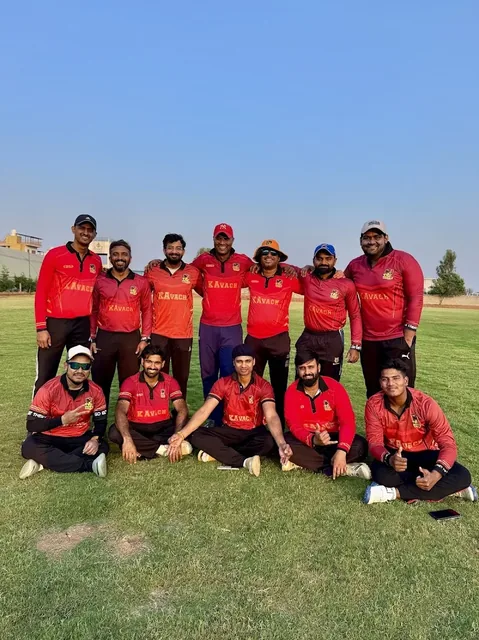
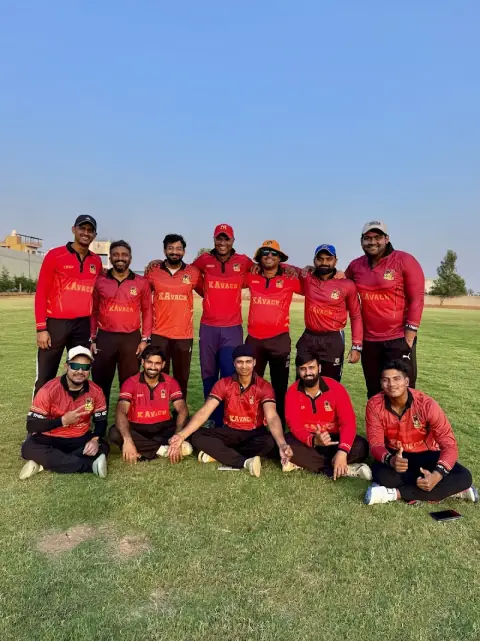
perf: compress mobile webp images and inline critical CSS with deferred style.css

diff --git a/index.html b/index.html
@@ -48,8 +48,395 @@
   <link rel="preload" href="./assets/fonts/inter-400.woff2" as="font" type="font/woff2" crossorigin>
   <link rel="preload" href="./assets/fonts/montserrat-700.woff2" as="font" type="font/woff2" crossorigin>
 
-  <!-- Stylesheets -->
-  <link rel="stylesheet" href="./assets/css/style.css?v=5.6">
+  <!-- Critical Above-the-Fold Inline CSS (Eliminates Render-Blocking Delays for FCP & LCP) -->
+  <style>
+    @font-face {
+      font-family: 'Inter';
+      font-style: normal;
+      font-weight: 400;
+      font-display: swap;
+      src: url('./assets/fonts/inter-400.woff2') format('woff2');
+      unicode-range: U+0000-00FF, U+0131, U+0152-0153, U+02BB-02BC, U+02C6, U+02DA, U+02DC, U+0304, U+0308, U+0329, U+2000-206F, U+20AC, U+2122, U+2191, U+2193, U+2212, U+2215, U+FEFF, U+FFFD;
+    }
+    @font-face {
+      font-family: 'Montserrat';
+      font-style: normal;
+      font-weight: 700;
+      font-display: swap;
+      src: url('./assets/fonts/montserrat-700.woff2') format('woff2');
+      unicode-range: U+0000-00FF, U+0131, U+0152-0153, U+02BB-02BC, U+02C6, U+02DA, U+02DC, U+0304, U+0308, U+0329, U+2000-206F, U+20AC, U+2122, U+2191, U+2193, U+2212, U+2215, U+FEFF, U+FFFD;
+    }
+    :root {
+      --red-primary: #D90429;
+      --red-light: #EF233C;
+      --red-dark: #A0031E;
+      --red-glow: rgba(217, 4, 41, 0.35);
+      --yellow-accent: #FFC107;
+      --yellow-light: #FFD166;
+      --yellow-dark: #D49B00;
+      --yellow-glow: rgba(255, 193, 7, 0.25);
+      --dark-bg: #0A0B0E;
+      --dark-surface: #12141A;
+      --dark-surface-elevated: #1A1D27;
+      --dark-surface-card: #151720;
+      --dark-surface-hover: #202430;
+      --border-subtle: rgba(255, 255, 255, 0.08);
+      --border-medium: rgba(255, 255, 255, 0.14);
+      --border-red: rgba(217, 4, 41, 0.4);
+      --border-yellow: rgba(255, 193, 7, 0.4);
+      --text-primary: #FFFFFF;
+      --text-secondary: #CBD5E1;
+      --text-muted: #94A3B8;
+      --text-dim: #64748B;
+      --whatsapp-color: #25D366;
+      --whatsapp-hover: #20BA5A;
+      --font-display: 'Montserrat', system-ui, -apple-system, BlinkMacSystemFont, 'Segoe UI', Roboto, sans-serif;
+      --font-body: 'Inter', system-ui, -apple-system, BlinkMacSystemFont, 'Segoe UI', Roboto, sans-serif;
+      --container-max: 1240px;
+      --radius-sm: 8px;
+      --radius-md: 14px;
+      --radius-lg: 20px;
+      --radius-pill: 9999px;
+      --transition-fast: 0.2s cubic-bezier(0.4, 0, 0.2, 1);
+      --transition-normal: 0.3s cubic-bezier(0.4, 0, 0.2, 1);
+      --transition-smooth: 0.5s cubic-bezier(0.16, 1, 0.3, 1);
+      --shadow-elevated: 0 20px 40px -15px rgba(0, 0, 0, 0.8);
+      --shadow-red: 0 12px 30px -5px rgba(217, 4, 41, 0.4);
+      --shadow-yellow: 0 10px 25px -5px rgba(255, 193, 7, 0.35);
+    }
+    *, *::before, *::after { box-sizing: border-box; margin: 0; padding: 0; }
+    html {
+      font-size: 16px;
+      scroll-behavior: smooth;
+      background-color: var(--dark-bg);
+      color: var(--text-primary);
+      font-family: var(--font-body);
+      line-height: 1.6;
+      -webkit-font-smoothing: antialiased;
+      overflow-x: hidden;
+      max-width: 100vw;
+      width: 100%;
+    }
+    body {
+      overflow-x: hidden;
+      max-width: 100vw;
+      width: 100%;
+      position: relative;
+      background-color: var(--dark-bg);
+      color: var(--text-secondary);
+    }
+    img, picture, svg { display: block; max-width: 100%; height: auto; }
+    a { color: inherit; text-decoration: none; }
+    ul, ol { list-style: none; }
+    button { cursor: pointer; border: none; background: none; }
+    .container {
+      width: 100%;
+      max-width: var(--container-max);
+      margin-left: auto;
+      margin-right: auto;
+      padding-left: 20px;
+      padding-right: 20px;
+    }
+    .top-bar {
+      background: #060709;
+      border-bottom: 1px solid var(--border-subtle);
+      font-size: 0.82rem;
+      padding: 7px 0;
+      color: var(--text-muted);
+    }
+    .top-bar .container {
+      display: flex;
+      align-items: center;
+      justify-content: space-between;
+      flex-wrap: wrap;
+      gap: 12px;
+    }
+    .top-bar-location { display: flex; align-items: center; gap: 8px; }
+    .top-bar-location svg { width: 14px; height: 14px; color: var(--red-light); }
+    .top-bar-right { display: flex; align-items: center; gap: 20px; }
+    .top-bar-link { display: flex; align-items: center; gap: 6px; }
+    .top-bar-link svg { width: 14px; height: 14px; color: var(--yellow-accent); }
+    .site-header {
+      position: sticky;
+      top: 0;
+      z-index: 1000;
+      background: rgba(10, 11, 14, 0.94);
+      backdrop-filter: blur(16px);
+      -webkit-backdrop-filter: blur(16px);
+      border-bottom: 1px solid var(--border-subtle);
+    }
+    .header-container {
+      display: flex;
+      align-items: center;
+      justify-content: space-between;
+      height: 74px;
+    }
+    .brand-logo { display: flex; align-items: center; gap: 12px; text-decoration: none; }
+    .brand-logo-img { width: 48px; height: 48px; object-fit: contain; }
+    .brand-info { display: flex; flex-direction: column; }
+    .brand-name { font-family: var(--font-display); font-size: 1.25rem; font-weight: 900; color: var(--text-primary); line-height: 1.1; }
+    .brand-name span { color: var(--red-light); }
+    .brand-tagline { font-size: 0.72rem; font-weight: 600; color: var(--yellow-accent); letter-spacing: 0.8px; text-transform: uppercase; }
+    .nav-menu { display: flex; align-items: center; gap: 10px; }
+    .nav-item { position: relative; }
+    .nav-link { font-family: var(--font-display); font-size: 0.88rem; font-weight: 600; color: var(--text-secondary); padding: 10px 14px; display: inline-flex; align-items: center; gap: 6px; }
+    .header-actions { display: flex; align-items: center; gap: 12px; }
+    .mobile-toggle { display: none; flex-direction: column; justify-content: center; gap: 6px; width: 44px; height: 44px; padding: 10px; background: transparent; border: none; cursor: pointer; z-index: 1100; box-sizing: border-box; }
+    .mobile-toggle span { display: block; width: 100%; height: 2px; background: var(--text-primary); border-radius: 2px; }
+    .mobile-nav-drawer { display: none; }
+    .header-veer-chat {
+      display: inline-flex;
+      align-items: center;
+      gap: 7px;
+      background: rgba(37, 211, 102, 0.12);
+      border: 1px solid rgba(37, 211, 102, 0.35);
+      color: #25D366;
+      font-family: var(--font-display);
+      font-weight: 700;
+      font-size: 0.85rem;
+      padding: 8px 14px;
+      border-radius: var(--radius-pill);
+      white-space: nowrap;
+    }
+    .header-veer-chat svg.wa-icon { width: 17px; height: 17px; fill: currentColor; }
+    .btn {
+      display: inline-flex;
+      align-items: center;
+      justify-content: center;
+      gap: 10px;
+      padding: 13px 26px;
+      font-family: var(--font-display);
+      font-size: 0.95rem;
+      font-weight: 700;
+      letter-spacing: 0.3px;
+      border-radius: var(--radius-sm);
+      white-space: nowrap;
+      transition: all var(--transition-normal);
+    }
+    .btn-primary { background: var(--red-primary); color: #FFFFFF; box-shadow: var(--shadow-red); }
+    .btn-accent { background: var(--yellow-accent); color: #0A0B0E; box-shadow: var(--shadow-yellow); }
+    .btn-secondary { background: rgba(255, 255, 255, 0.05); border: 1px solid var(--border-medium); color: var(--text-primary); }
+    .btn-sm { padding: 8px 18px; font-size: 0.85rem; }
+    .btn-lg { padding: 15px 34px; font-size: 1.05rem; }
+    .hero-section {
+      position: relative;
+      display: flex;
+      align-items: center;
+      padding: 38px 0 46px;
+      background: radial-gradient(circle at 85% 15%, rgba(217, 4, 41, 0.09) 0%, transparent 45%),
+                  radial-gradient(circle at 15% 85%, rgba(255, 193, 7, 0.06) 0%, transparent 40%),
+                  var(--dark-bg);
+      overflow: visible;
+    }
+    .hero-grid {
+      display: grid;
+      grid-template-columns: 1.15fr 0.85fr;
+      gap: 48px;
+      align-items: center;
+    }
+    .hero-badges-row {
+      display: flex;
+      align-items: center;
+      gap: 12px;
+      flex-wrap: wrap;
+      margin-bottom: 22px;
+    }
+    .hero-badge-slogan {
+      display: inline-flex;
+      align-items: center;
+      gap: 10px;
+      padding: 7px 18px;
+      background: linear-gradient(90deg, rgba(217, 4, 41, 0.22) 0%, rgba(255, 193, 7, 0.16) 100%);
+      border: 1px solid var(--border-red);
+      border-radius: var(--radius-pill);
+    }
+    .hero-badge-slogan .slogan-text {
+      font-family: var(--font-display);
+      font-size: 0.88rem;
+      font-weight: 800;
+      color: var(--yellow-accent);
+      letter-spacing: 0.5px;
+      text-transform: uppercase;
+    }
+    .hero-badge-slogan .slogan-dot {
+      width: 6px;
+      height: 6px;
+      border-radius: 50%;
+      background: var(--red-light);
+    }
+    .hero-badge-ranking {
+      display: inline-flex;
+      align-items: center;
+      gap: 6px;
+      padding: 6px 14px;
+      background: rgba(255, 193, 7, 0.12);
+      border: 1px solid var(--border-yellow);
+      color: var(--yellow-accent);
+      border-radius: var(--radius-pill);
+      font-family: var(--font-display);
+      font-size: 0.82rem;
+      font-weight: 700;
+    }
+    .hero-badge-ranking svg { width: 14px; height: 14px; }
+    .hero-title {
+      font-family: var(--font-display);
+      font-size: clamp(2.4rem, 5vw, 3.8rem);
+      font-weight: 900;
+      line-height: 1.12;
+      color: var(--text-primary);
+      margin-bottom: 20px;
+      letter-spacing: -1px;
+    }
+    .hero-desc {
+      font-size: 1.12rem;
+      line-height: 1.65;
+      color: var(--text-secondary);
+      margin-bottom: 30px;
+      max-width: 600px;
+    }
+    .hero-ctas {
+      display: flex;
+      align-items: center;
+      gap: 16px;
+      flex-wrap: wrap;
+      margin-bottom: 36px;
+    }
+    .hero-perks {
+      display: flex;
+      align-items: center;
+      gap: 22px;
+      flex-wrap: wrap;
+      padding-top: 22px;
+      border-top: 1px solid var(--border-subtle);
+    }
+    .hero-perk-item {
+      display: flex;
+      align-items: center;
+      gap: 8px;
+      font-size: 0.88rem;
+      font-weight: 600;
+      color: var(--text-muted);
+    }
+    .hero-perk-item svg { width: 18px; height: 18px; color: var(--yellow-accent); flex-shrink: 0; }
+    .hero-media-card { position: relative; }
+    .hero-image-wrapper {
+      position: relative;
+      border-radius: var(--radius-lg);
+      overflow: hidden;
+      border: 1px solid var(--border-medium);
+      box-shadow: var(--shadow-elevated);
+    }
+    .hero-main-img {
+      width: 100%;
+      height: 520px;
+      object-fit: cover;
+      display: block;
+    }
+    .hero-image-overlay {
+      position: absolute;
+      inset: 0;
+      background: linear-gradient(180deg, transparent 35%, rgba(10, 11, 14, 0.85) 85%, rgba(10, 11, 14, 0.98) 100%);
+      pointer-events: none;
+    }
+    .hero-caption {
+      position: absolute;
+      bottom: 58px;
+      left: 20px;
+      right: 20px;
+      z-index: 2;
+      color: #FFFFFF;
+      text-align: center;
+    }
+    .hero-caption h4 {
+      font-family: var(--font-display);
+      font-size: 1.15rem;
+      font-weight: 800;
+      margin-bottom: 4px;
+      color: var(--yellow-accent);
+    }
+    .hero-caption p { font-size: 0.85rem; color: var(--text-secondary); }
+    .hero-floating-badge {
+      position: absolute;
+      bottom: -18px;
+      left: 50%;
+      transform: translateX(-50%);
+      background: var(--dark-surface-elevated);
+      border: 1px solid var(--border-red);
+      padding: 10px 22px;
+      border-radius: var(--radius-pill);
+      box-shadow: 0 14px 34px rgba(0, 0, 0, 0.7), 0 0 16px rgba(217, 4, 41, 0.22);
+      display: flex;
+      align-items: center;
+      gap: 14px;
+      z-index: 3;
+      width: max-content;
+      max-width: 90%;
+      white-space: nowrap;
+    }
+    .floating-badge-icon {
+      width: 42px;
+      height: 42px;
+      border-radius: 50%;
+      background: rgba(217, 4, 41, 0.16);
+      display: flex;
+      align-items: center;
+      justify-content: center;
+      color: var(--red-light);
+      flex-shrink: 0;
+    }
+    .floating-badge-icon svg { width: 22px; height: 22px; }
+    .floating-badge-text h5 {
+      font-family: var(--font-display);
+      font-size: 0.96rem;
+      font-weight: 800;
+      color: var(--text-primary);
+      line-height: 1.1;
+    }
+    .floating-badge-text p { font-size: 0.78rem; color: var(--text-muted); }
+
+    @media (max-width: 1024px) {
+      .nav-menu { display: none; }
+      .mobile-toggle { display: flex; }
+    }
+    @media (max-width: 992px) {
+      .hero-grid { grid-template-columns: 1fr; gap: 36px; }
+      .hero-text-content { text-align: center; display: flex; flex-direction: column; align-items: center; }
+      .hero-badges-row { justify-content: center; }
+      .hero-title { text-align: center; }
+      .hero-desc { text-align: center; margin-left: auto; margin-right: auto; }
+      .hero-ctas { justify-content: center; width: 100%; }
+      .hero-ctas .btn { width: 100%; max-width: 320px; justify-content: center; text-align: center; }
+      .hero-perks { justify-content: center; gap: 14px 18px; }
+      .hero-main-img { height: 380px; }
+      .hero-caption { bottom: 54px; }
+      .hero-floating-badge { bottom: -18px; left: 50%; transform: translateX(-50%); max-width: 92%; }
+    }
+    @media (max-width: 768px) {
+      .top-bar { display: none; }
+      .site-header { height: 66px; }
+      .header-container { height: 66px; }
+      .brand-logo-img { width: 38px; height: 38px; }
+      .brand-name { font-size: 1.15rem; }
+      .brand-tagline { font-size: 0.65rem; letter-spacing: 0.5px; }
+      .header-actions { gap: 8px; }
+      .header-actions > .btn, .header-actions > .contact-action-dropdown { display: none; }
+      .header-veer-chat { padding: 6px 12px; font-size: 0.8rem; gap: 5px; }
+      .header-veer-chat svg.wa-icon { width: 15px; height: 15px; }
+      .mobile-toggle { width: 44px; height: 44px; padding: 10px; }
+      .mobile-nav-drawer { top: 66px; height: calc(100vh - 66px); }
+    }
+    @media (max-width: 480px) {
+      .hero-caption { bottom: 50px; }
+      .hero-caption h4 { font-size: 1rem; }
+      .hero-floating-badge { padding: 8px 16px; gap: 10px; border-radius: var(--radius-md); max-width: 94%; white-space: normal; }
+      .floating-badge-icon { width: 36px; height: 36px; }
+      .floating-badge-text h5 { font-size: 0.88rem; }
+    }
+  </style>
+
+  <!-- Defer Non-Critical Stylesheets to Unblock First Contentful Paint (FCP) -->
+  <link rel="stylesheet" href="./assets/css/style.css?v=5.6" media="print" onload="this.media='all'">
+  <noscript><link rel="stylesheet" href="./assets/css/style.css?v=5.6"></noscript>
   <link rel="stylesheet" href="./assets/css/animations.css" media="print" onload="this.media='all'">
   <noscript><link rel="stylesheet" href="./assets/css/animations.css"></noscript>
 
